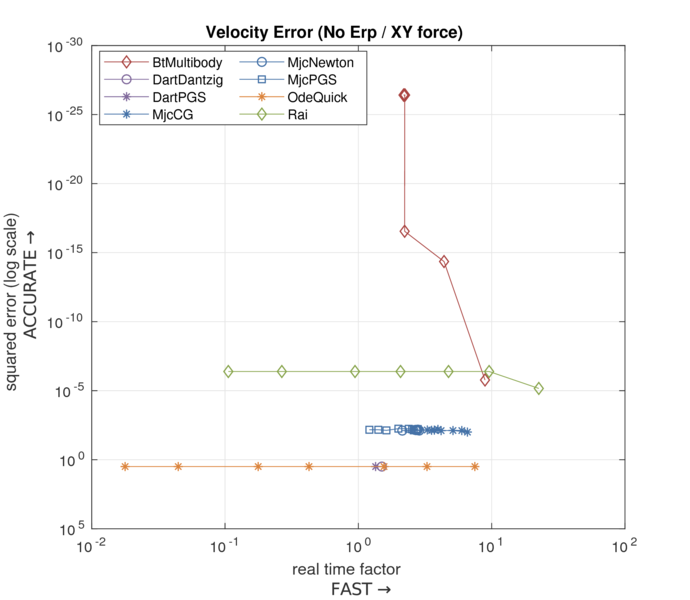
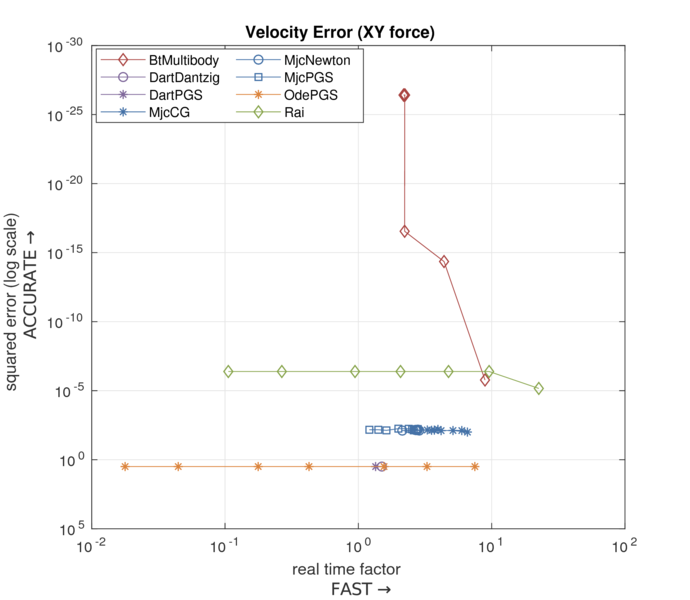
- rolling error-speed plot updated

Changed region(s): [[0.1217, 0.03, 0.6696, 0.21]]

diff --git a/etc/matlab/plot-gen/rolling.m b/etc/matlab/plot-gen/rolling.m
@@ -91,10 +91,10 @@ erpYdirXY = plotoption;
 % erpYdirXY.DARTPGS = false;      % DART is pyramid friction cone
 
 disp('plotting error vs real-time-factor...')
-plot_error_speed(T, const, plotSpec, false, false, '-noerp-y', '(No Erp / Y force)', erpNdirY);
-plot_error_speed(T, const, plotSpec, false, true, '-noerp-xy', '(No Erp / XY force)', erpNdirXY);
-% plot_error_speed(T, const, plotSpec, true, false, '-erp-y', '(Erp / Y force)', erpYdirY);
-plot_error_speed(T, const, plotSpec, true, true, '-erp-xy', '(Erp / XY force)', erpYdirXY);
+plot_error_speed(T, const, plotSpec, false, false, '-noerp-y', '(Y force)', erpNdirY);
+plot_error_speed(T, const, plotSpec, false, true, '-noerp-xy', '(XY force)', erpNdirXY);
+% plot_error_speed(T, const, plotSpec, true, false, '-erp-y', '(Y force)', erpYdirY);
+% plot_error_speed(T, const, plotSpec, true, true, '-erp-xy', '(XY force)', erpYdirXY);
 
 %% bar plot (for min dt)
 T2 = T(T.ERP == false & T.DIRECTION == true, :);

diff --git a/etc/matlab/plot-gen/plotspec.m b/etc/matlab/plot-gen/plotspec.m
@@ -10,8 +10,8 @@ classdef plotspec
         BULLETMLCPLEMKEBULLET =         {'-p', 'BtLemke',      [170, 70, 67] ./ 255};
         BULLETMLCPPGSBULLET =           {'-h', 'BtPGS',        [170, 70, 67] ./ 255};
         BULLETMULTIBODYBULLET =         {'-d', 'BtMultibody',  [170, 70, 67] ./ 255};
-        ODESTANDARDODE =                {'-o', 'OdeStd',       [219, 132, 61] ./ 255};
-        ODEQUICKODE =                   {'-*', 'OdeQuick',     [219, 132, 61] ./ 255};
+        ODESTANDARDODE =                {'-o', 'OdeDantzig',       [219, 132, 61] ./ 255};
+        ODEQUICKODE =                   {'-*', 'OdePGS',     [219, 132, 61] ./ 255};
         MUJOCOPGSEULER =                {'-s', 'MjcPGS',       [69, 114, 167] ./ 255};
         MUJOCOCGEULER =                 {'-*', 'MjcCG',        [69, 114, 167] ./ 255};
         MUJOCONEWTONEULER =             {'-o', 'MjcNewton',    [69, 114, 167] ./ 255};
